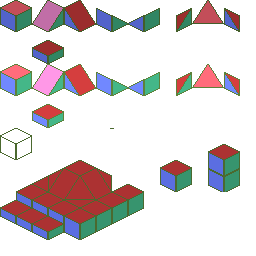
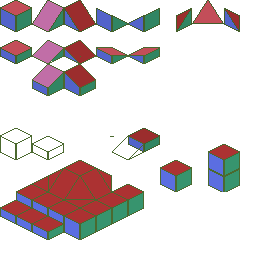
new tile types and clickable tile selector

diff --git a/src/input.rs b/src/input.rs
@@ -3,28 +3,42 @@ use bevy::{
     math::{Vec2Swizzles, Vec3Swizzles},
     prelude::*,
 };
-use bevy_egui::{egui, EguiContext};
+use bevy_egui::{
+    egui::{self, TextureId},
+    EguiContext,
+};
 use bevy_mouse_tracking_plugin::{MousePosPlugin, MousePosWorld};
 
-use crate::iso::{self, IsoCoord, PIXEL_TO_ISO};
+use crate::iso::{self, IsoCoord, IsoState, PIXEL_TO_ISO};
+
+#[derive(Component)]
+pub struct CursorMarker;
 
 #[derive(Default)]
 pub struct InputState {
-    tile_type: usize,
-    layer: i32,
+    pub tile_type: usize,
+    pub layer: i32,
+
+    texture: Option<egui::TextureId>,
 }
 
 fn iso_pick_system(
     mouse: Res<MousePosWorld>,
     state: Res<InputState>,
     mut mouse_button_input_events: EventReader<MouseButtonInput>,
-    mut query: Query<(&IsoCoord, &mut TextureAtlasSprite)>,
+    mut query: Query<(&IsoCoord, &mut TextureAtlasSprite), Without<CursorMarker>>,
+    mut cursor_query: Query<&mut IsoCoord, With<CursorMarker>>,
 ) {
+    let layer = state.layer as f32;
+    let pick_coord = (*PIXEL_TO_ISO * (mouse.xy() - layer * 16.0 * Vec2::Y)).floor();
+    if let Ok(mut iso_coord) = cursor_query.get_single_mut() {
+        iso_coord.0 = pick_coord;
+        iso_coord.1 = layer;
+    }
     for event in mouse_button_input_events.iter() {
         if event.button == MouseButton::Left {
-            let offset = 16 * state.layer as usize;
-            let layer = state.layer as f32;
-            let pick_coord = (*PIXEL_TO_ISO * (mouse.xy() - layer * 16.0 * Vec2::Y)).floor();
+            let offset = 0; // 16 * state.layer as usize;
+
             for (iso_coord, mut sprite) in query.iter_mut() {
                 if iso_coord.0.x == pick_coord.x
                     && iso_coord.0.y == pick_coord.y
@@ -38,10 +52,36 @@ fn iso_pick_system(
     }
 }
 
-fn input_egui_system(mut state: ResMut<InputState>, mut egui_context: ResMut<EguiContext>) {
+fn input_egui_system(
+    mut state: ResMut<InputState>,
+    iso_state: Res<IsoState>,
+    mut egui_context: ResMut<EguiContext>,
+) {
+    let texture = *state
+        .texture
+        .get_or_insert_with(|| egui_context.add_image(iso_state.tileset_image.clone()));
+
     egui::Window::new("input").show(egui_context.ctx_mut(), |ui| {
-        ui.add(egui::Slider::new(&mut state.tile_type, 0..=8));
+        ui.add(egui::Slider::new(&mut state.tile_type, 0..=24));
         ui.add(egui::Slider::new(&mut state.layer, 0..=3));
+
+        let response = ui.add(egui::ImageButton::new(texture, (256.0, 256.0)));
+
+        if response.clicked() {
+            if let Some(pos) = response.interact_pointer_pos() {
+                let pos = pos - response.rect.left_top();
+                info!("pos: {:?}", pos);
+                state.tile_type = (pos.y as usize / 32) * 8 + (pos.x as usize / 32);
+            }
+        }
+        // if let Some(hover_pos) = response.hover_pos() {
+        //     let pos = hover_pos - response.rect.left_top();
+        //     info!("pos: {:?}", pos);
+
+        //     if response.interact_pointer_pos() {
+        //         info!("pos: {:?}", pos);
+        //     }
+        // }
     });
 }
 

diff --git a/src/main.rs b/src/main.rs
@@ -1,6 +1,9 @@
 use bevy::{diagnostic::DiagnosticsPlugin, input::system::exit_on_esc_system, prelude::*};
 use clap::Parser;
-use iso80s::iso::{IsoCoord, IsoPlugin, IsoState};
+use iso80s::{
+    input::{CursorMarker, InputState},
+    iso::{IsoCoord, IsoPlugin, IsoState},
+};
 
 #[derive(Parser, Debug)]
 #[clap(author, version, about, long_about = None)]
@@ -32,8 +35,12 @@ fn main() {
         }
     }
 
+    app.add_system(update_preview_tile_system);
     app.run();
 }
+
+#[derive(Component)]
+struct TilePreviewMarker;
 
 fn setup_system(mut commands: Commands, iso_state: Res<IsoState>) {
     // for i in 0..8 {
@@ -49,7 +56,7 @@ fn setup_system(mut commands: Commands, iso_state: Res<IsoState>) {
     // }
 
     let mut pos = Vec::new();
-    for layer in 0..2 {
+    for layer in 0..3 {
         let mut pos_tmp = Vec::new();
 
         for y in 0..16 {
@@ -65,7 +72,8 @@ fn setup_system(mut commands: Commands, iso_state: Res<IsoState>) {
         pos.append(&mut pos_tmp);
     }
     for iso_coord in pos {
-        let index = if iso_coord.1 == 0.0 { 0 } else { 8 };
+        //let index = if iso_coord.1 == 0.0 { 0 } else { 8 };
+        let index = 15;
         commands
             .spawn_bundle(SpriteSheetBundle {
                 texture_atlas: iso_state.tileset_atlas.clone(),
@@ -74,5 +82,36 @@ fn setup_system(mut commands: Commands, iso_state: Res<IsoState>) {
                 ..default()
             })
             .insert(iso_coord);
+    }
+    commands
+        .spawn_bundle(SpriteSheetBundle {
+            texture_atlas: iso_state.tileset_atlas.clone(),
+            sprite: TextureAtlasSprite {
+                index: 32,
+                ..default()
+            },
+            ..default()
+        })
+        .insert(IsoCoord::default())
+        .insert(CursorMarker);
+
+    commands
+        .spawn_bundle(SpriteSheetBundle {
+            texture_atlas: iso_state.tileset_atlas.clone(),
+            sprite: TextureAtlasSprite {
+                index: 32,
+                ..default()
+            },
+            ..default()
+        })
+        .insert(TilePreviewMarker);
+}
+
+fn update_preview_tile_system(
+    mut query: Query<&mut TextureAtlasSprite, With<TilePreviewMarker>>,
+    input_state: Res<InputState>,
+) {
+    if let Ok(mut sprite) = query.get_single_mut() {
+        sprite.index = input_state.tile_type;
     }
 }

diff --git a/src/iso.rs b/src/iso.rs
@@ -29,6 +29,7 @@ fn iso_coord_update(mut query: Query<(&mut Transform, &IsoCoord), Changed<IsoCoo
 
 #[derive(Default)]
 pub struct IsoState {
+    pub tileset_image: Handle<Image>,
     pub tileset_atlas: Handle<TextureAtlas>,
 }
 
@@ -38,9 +39,10 @@ pub fn iso_startup_system(
     mut texture_atlases: ResMut<Assets<TextureAtlas>>,
 ) {
     let texture_handle = asset_server.load("iso_tiles_rgb.png");
-    let atlas = TextureAtlas::from_grid(texture_handle, Vec2::splat(32.0), 8, 8);
+    let atlas = TextureAtlas::from_grid(texture_handle.clone(), Vec2::splat(32.0), 8, 8);
     let atlas_handle = texture_atlases.add(atlas);
     iso_state.tileset_atlas = atlas_handle;
+    iso_state.tileset_image = texture_handle;
 }
 
 pub struct IsoPlugin;
